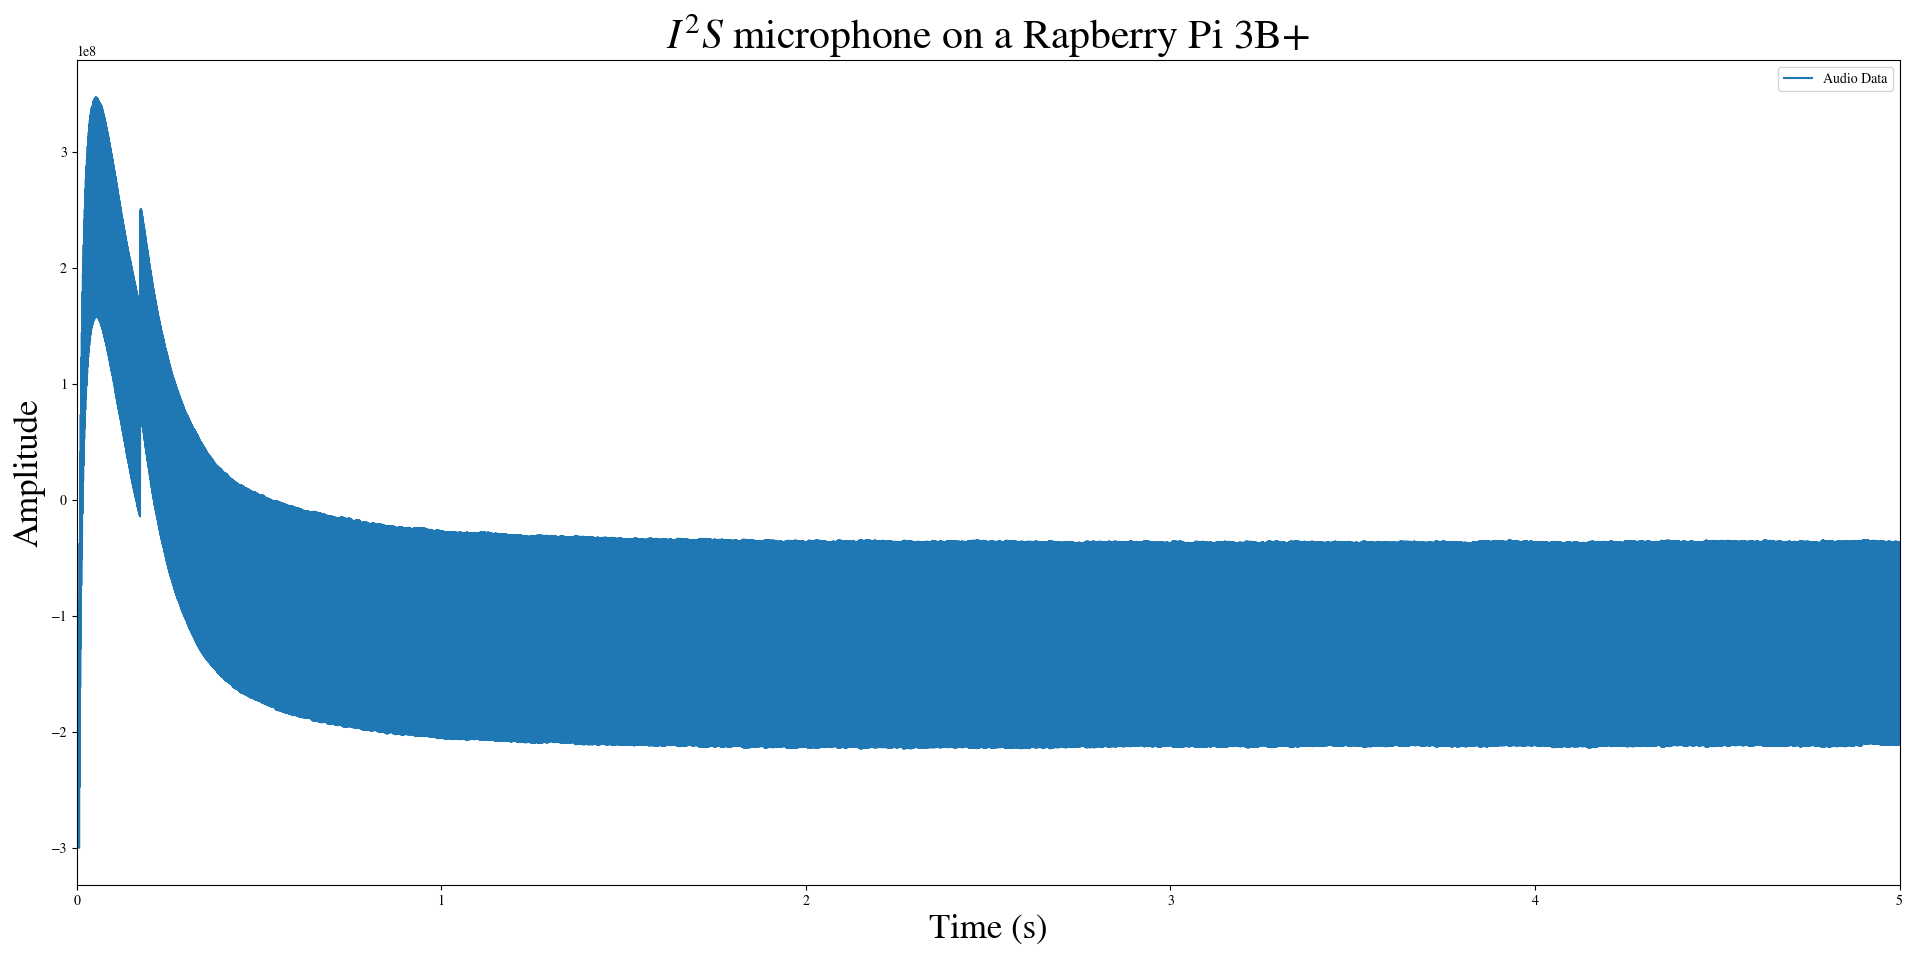
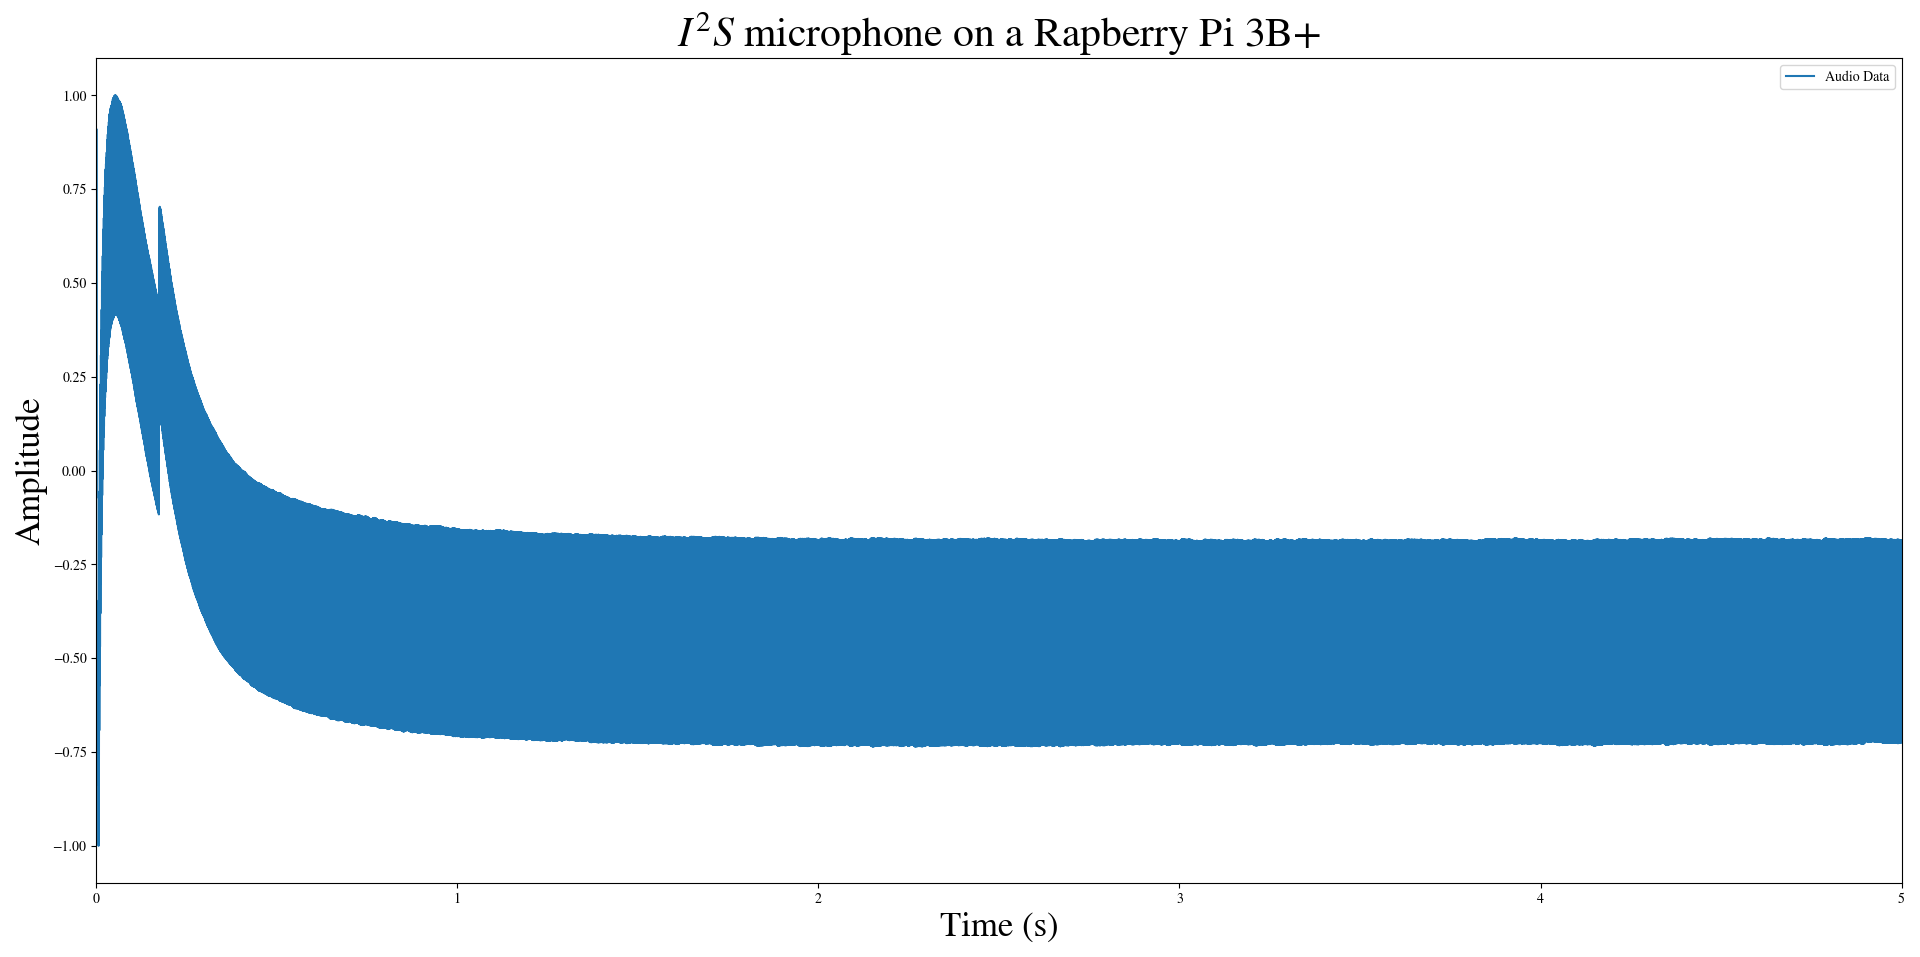
Normalize audio data

Changed region(s): [[0.0, 0.0, 1.0, 1.0], [0.1539, 0.5152, 0.1847, 0.5455], [0.1231, 0.4848, 0.1539, 0.5152]]

diff --git a/chapters/04_results_and_discussion.tex b/chapters/04_results_and_discussion.tex
@@ -52,11 +52,11 @@ The \SI{1}{\kilo\hertz} sine wave audio has been played using the speakers of a 
 \begin{figure}[H]
     \centering
     \includegraphics[width=0.9\textwidth]{figures/i2s/i2s_raw_data.png}
-    \caption[PCM data of the $I^2S$ microphone plotted]{PCM data of the $I^2S$ microphone plotted}
+    \caption[PCM data of the $I^2S$ microphone normalized and plotted]{PCM data of the $I^2S$ microphone normalized plotted}
     \label{fig:i2s_raw}
 \end{figure}
 
-When analyzing the raw data displayed in Figure~\ref{fig:i2s_raw}, the spike from seconds 0 to about 0.5
+When analyzing the 5-second audio data capture displayed in Figure~\ref{fig:i2s_raw}, the spike from seconds 0 to about 0.5
 is very noticeable. That is because the microphone seems to have a 'warm-up time', it takes about 1 second for it to be operational and produce clean data.
 This has also been noticed on the PULPissimo board with the PDM microphone.
 However, after that period, the $I^2S$ microphone is completely operational.
